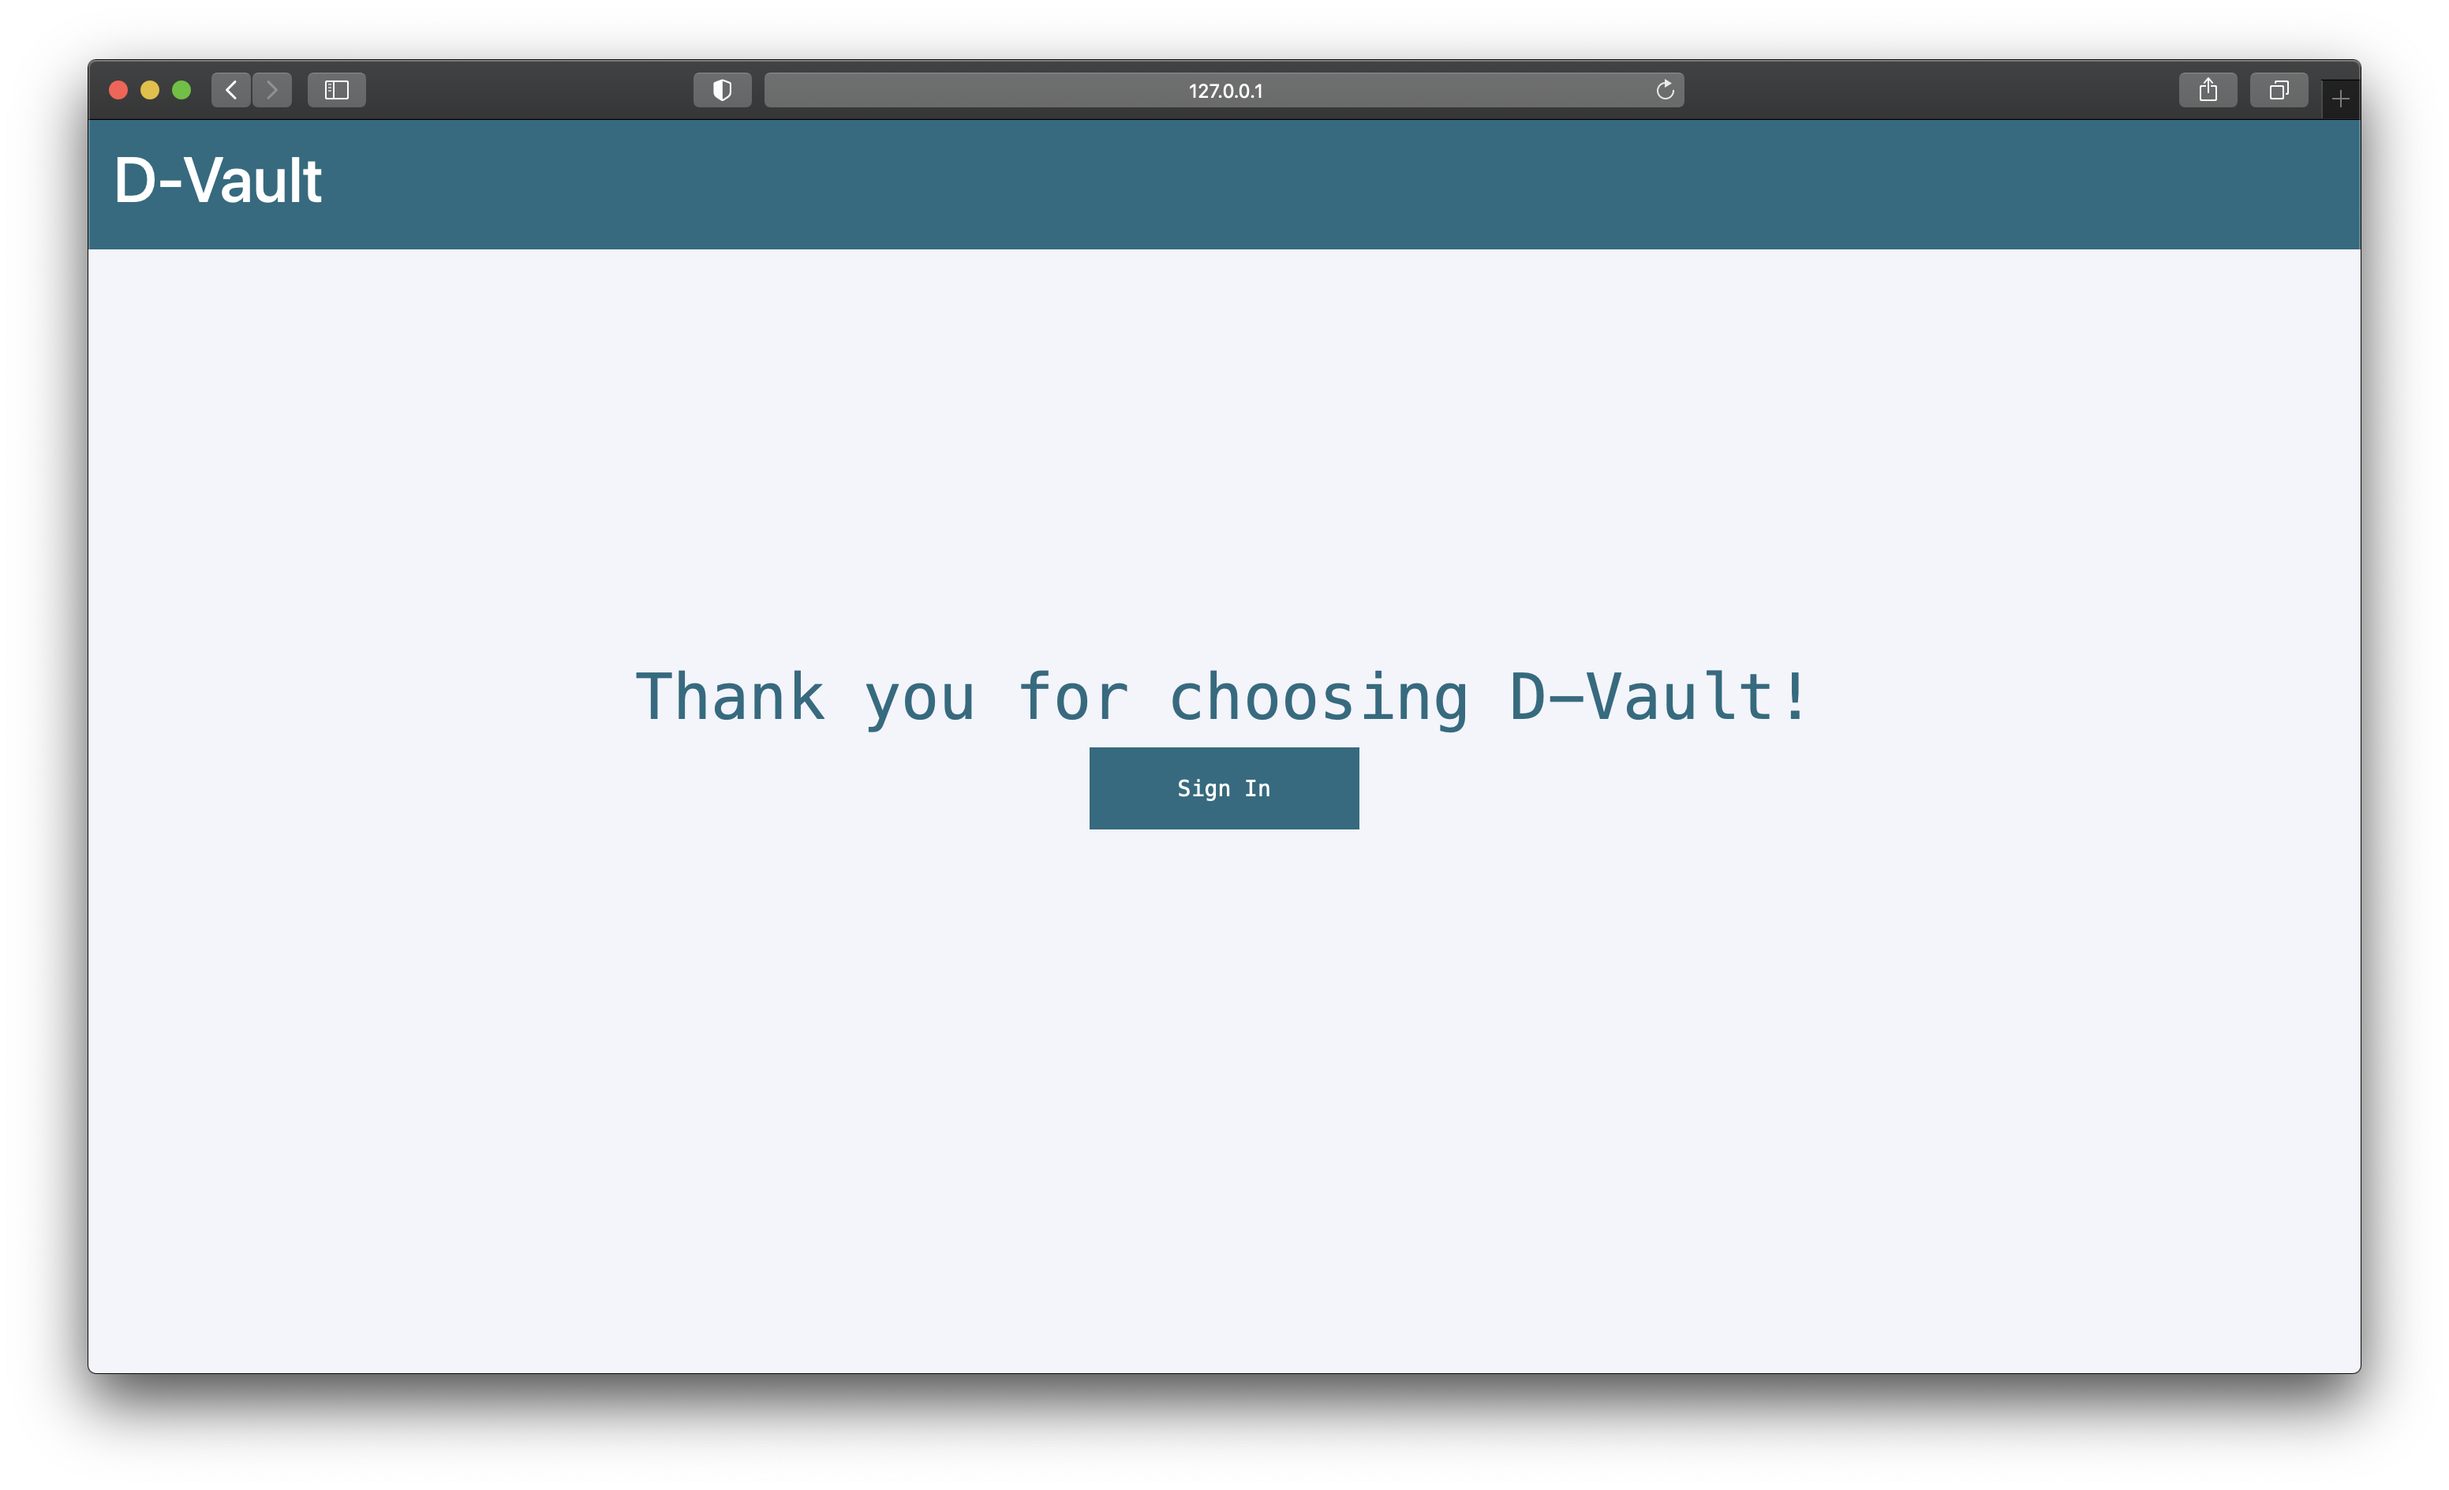
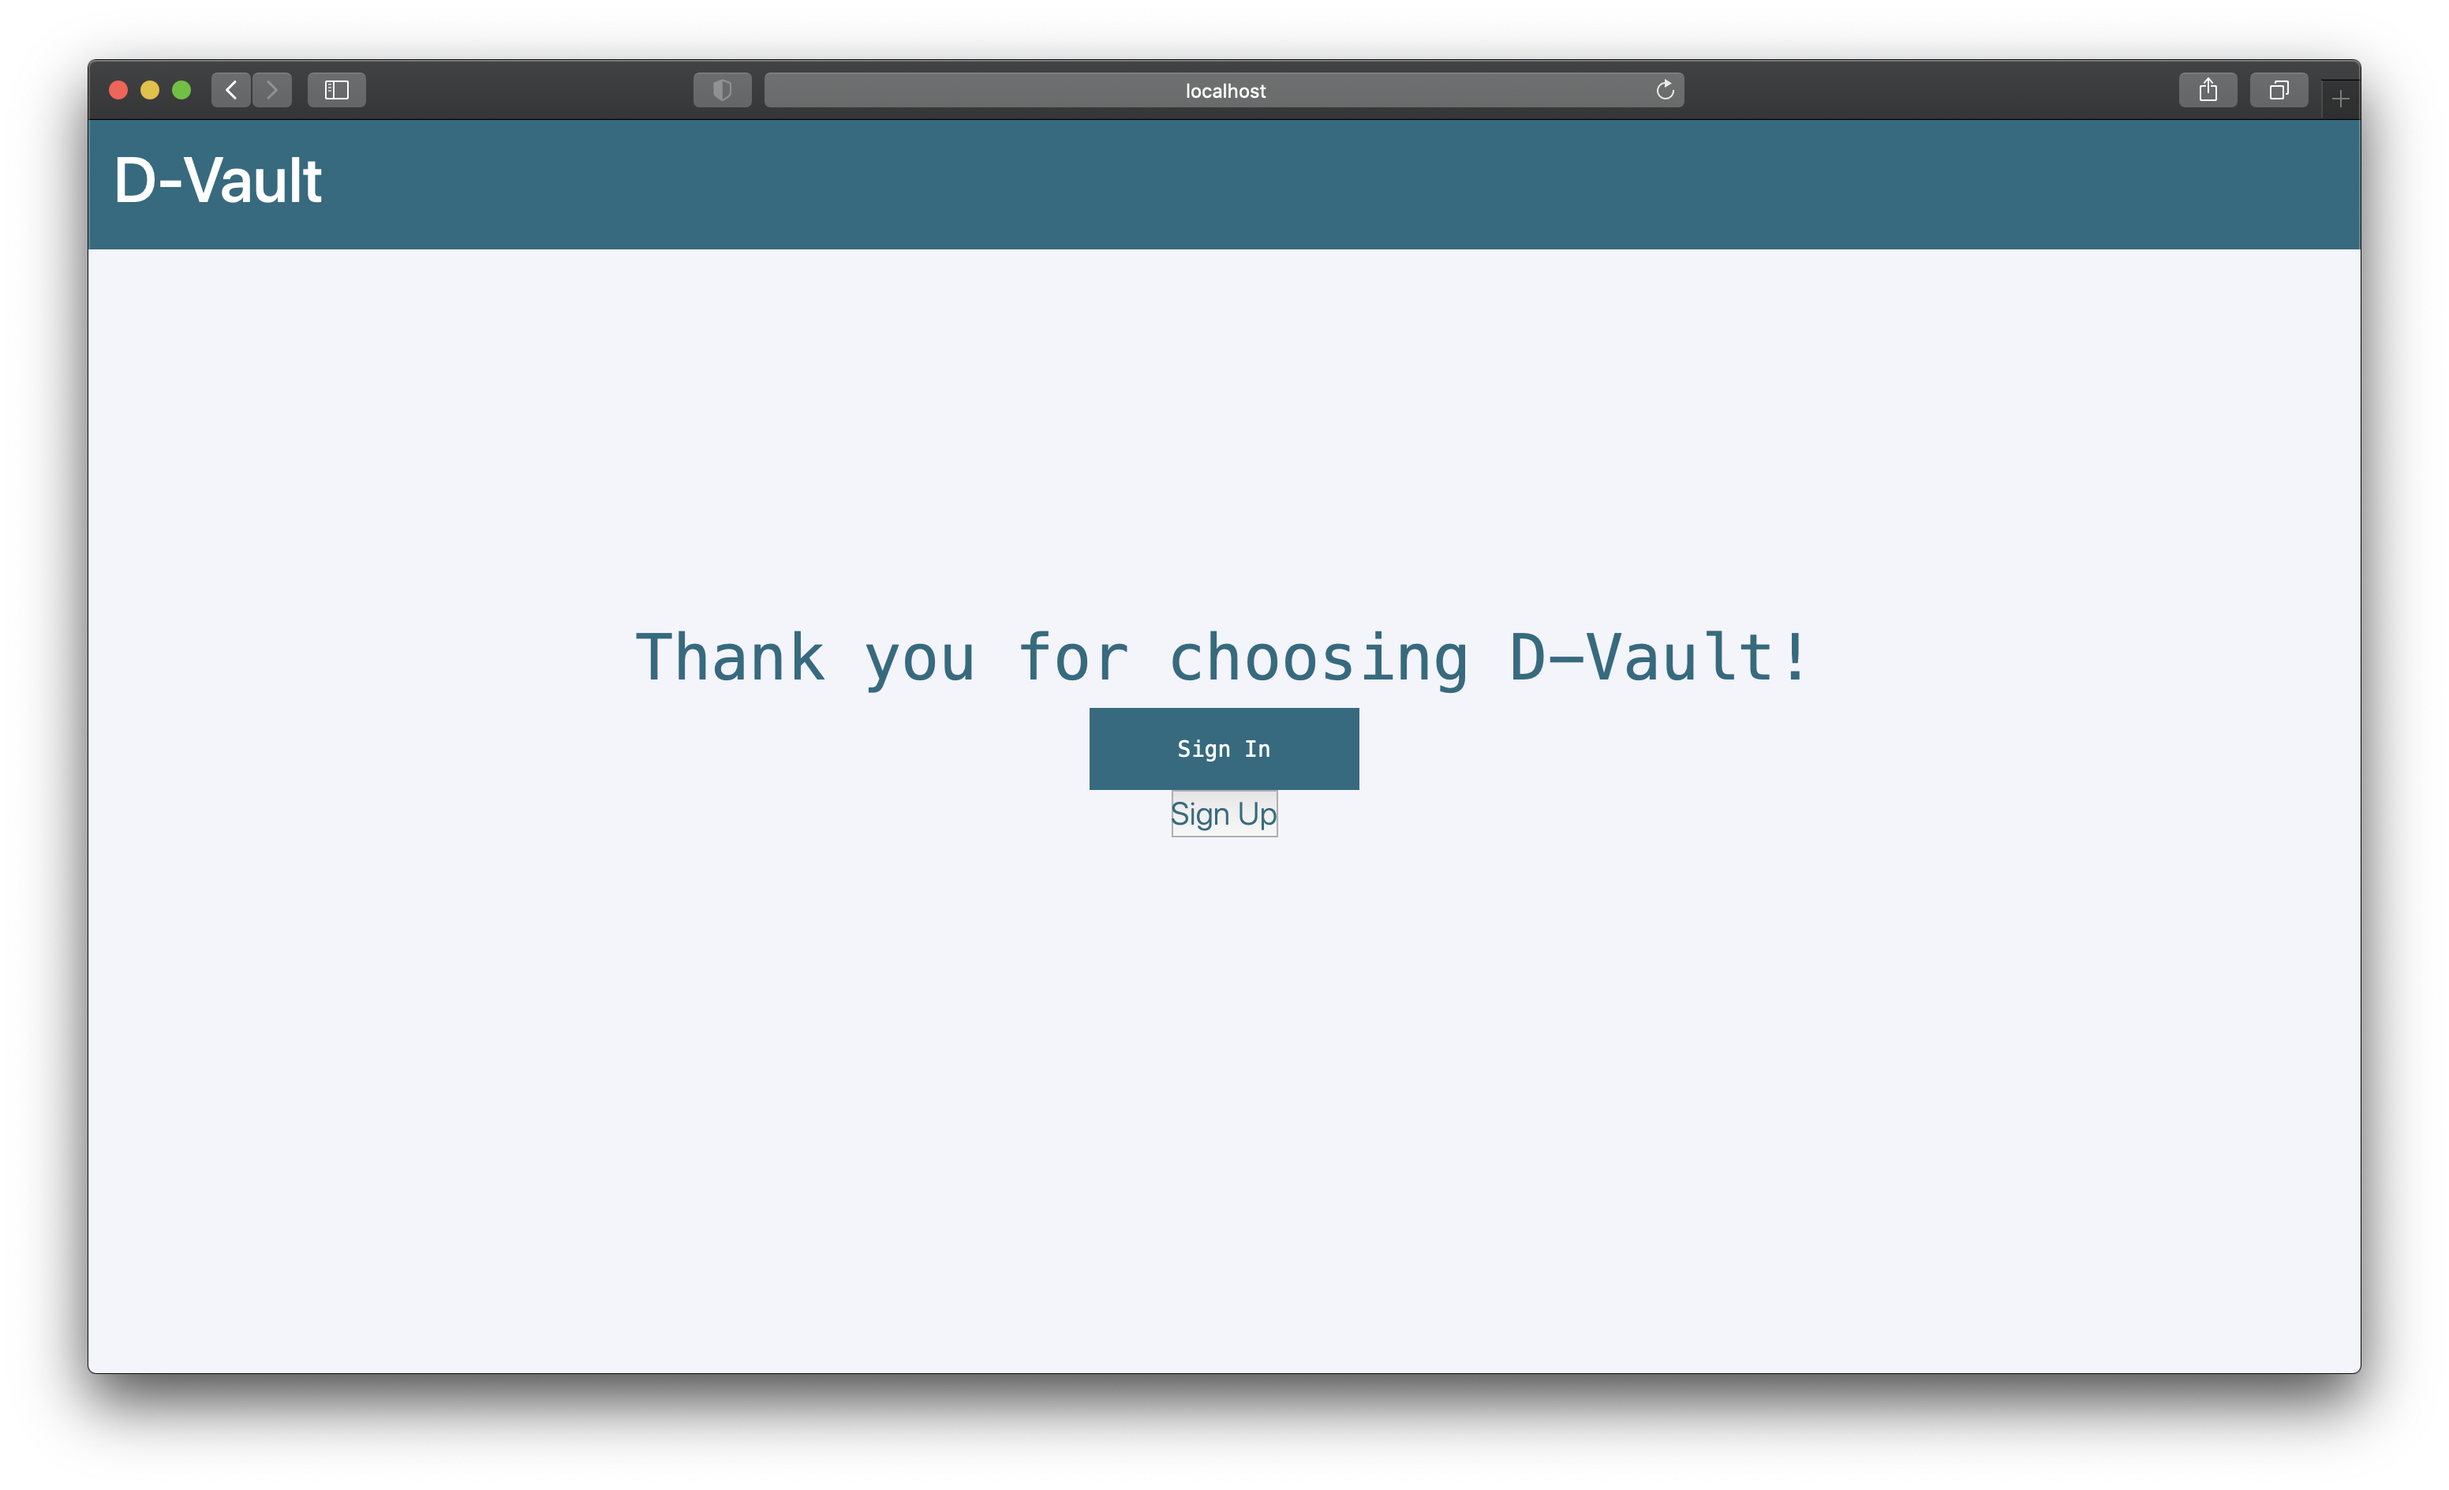
Update README for new sign up sign in logic

Changed region(s): [[0.25, 0.4062, 0.7188, 0.5625]]

diff --git a/README.md b/README.md
@@ -24,12 +24,7 @@ App home page when App first launched:
   <img src="./README/Images/1.png" width="70%" height="70%" />
 </p>
 
-Click on "Sign in" button to initiate authentication process:
-<p align="center">
-  <img src="./README/Images/2.png" width="70%" height="70%" />
-</p>
-
-Create a Blockstack account by click on the "Get your Secret Key" button. (To sign in with a existing Blockstack account, click on the "Sign in" button at lower left) You will be redirected to the Blockstack authentication portal, your Secret Key will be presented:
+Click on "Sign Up" button to initiate authentication process (To sign in with a existing Blockstack account, click on the "Sign in" button), your Secret Key will be presented:
 <p align="center">
   <img src="./README/Images/3.png" width="70%" height="70%" />
 </p>
